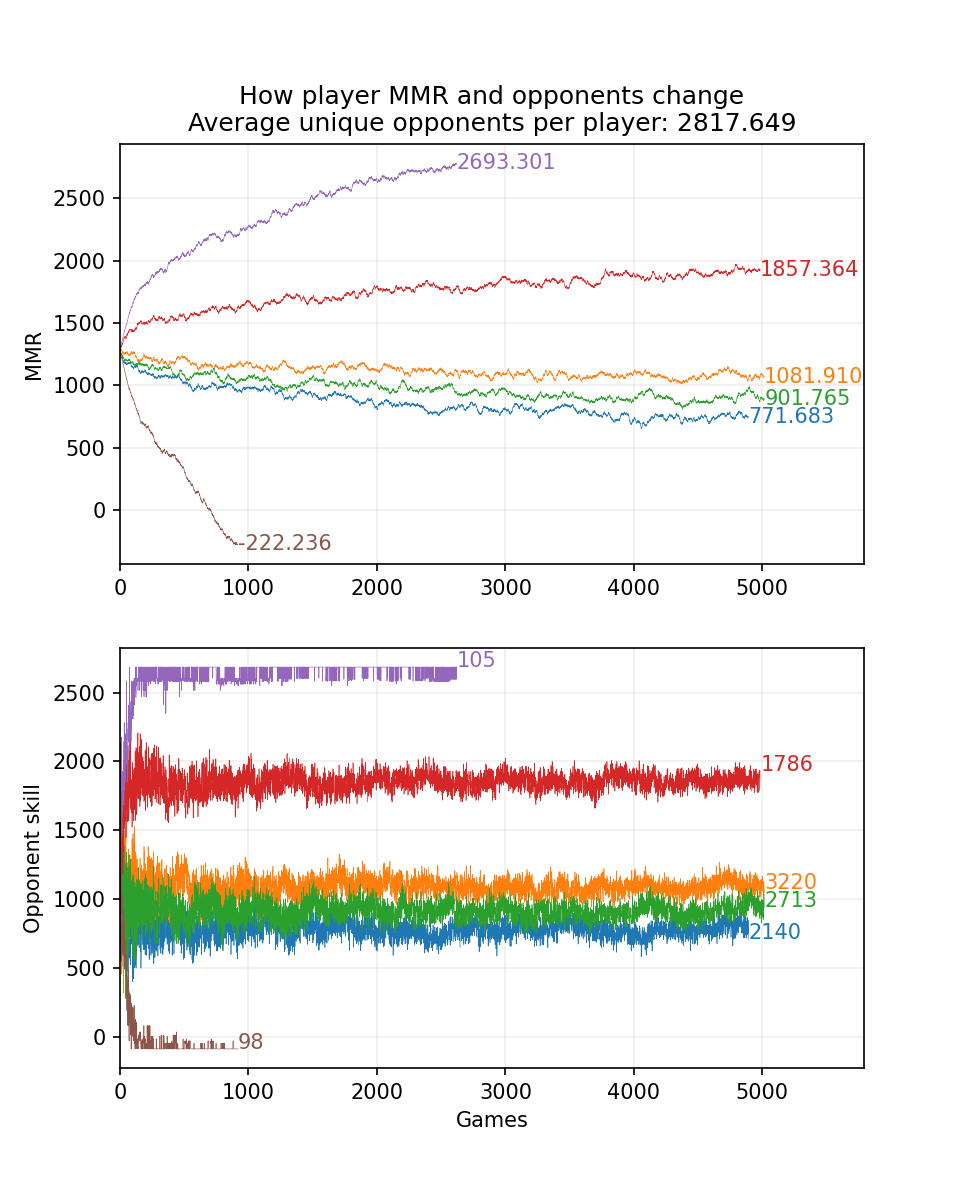
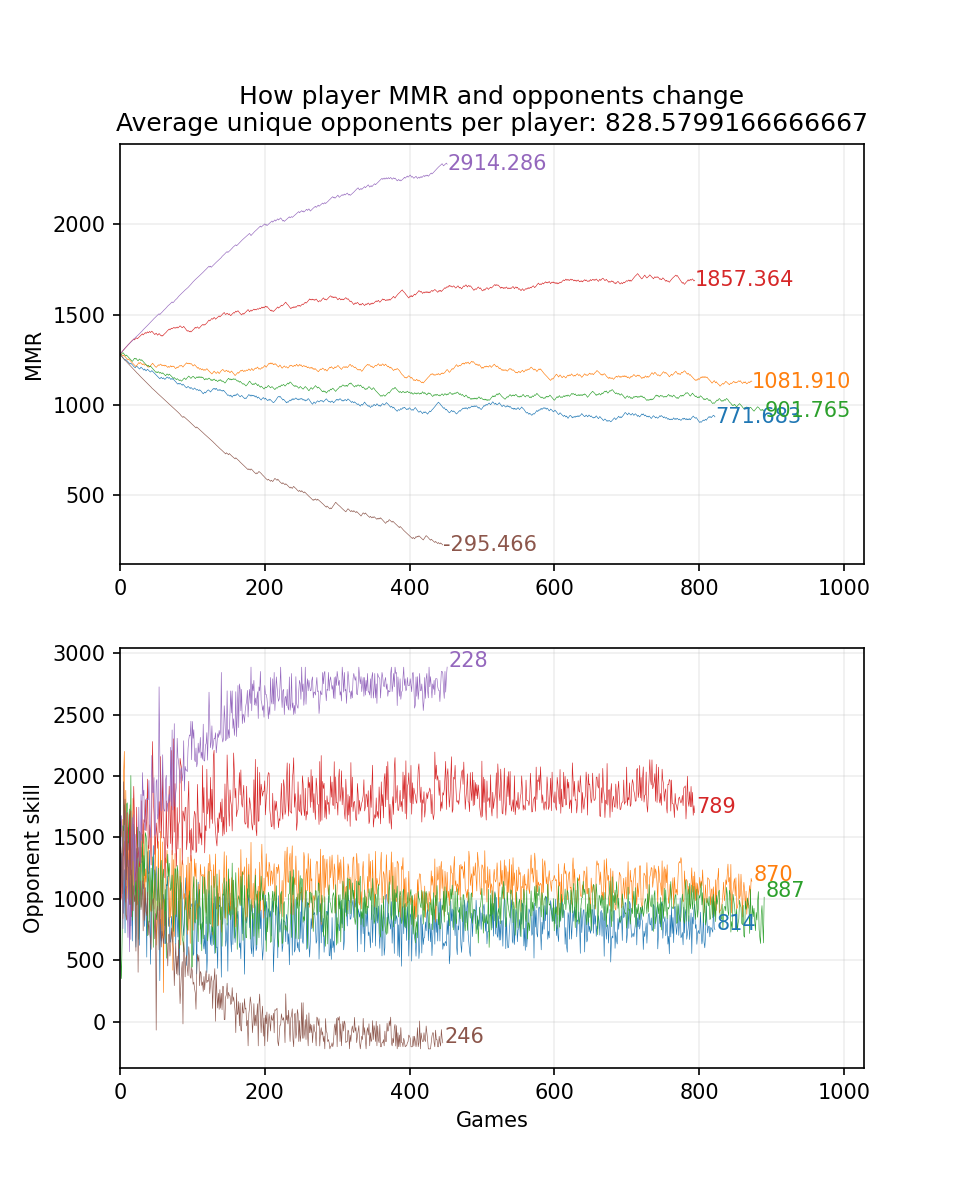
...

diff --git a/analyse.py b/analyse.py
@@ -8,16 +8,15 @@ import seaborn as sns
 
 import psimulation
 
-### RUN SIMULATION
 start = time.time()
-GAMES = 50000000
-PLAYERS = 20000
+### RUN SIMULATION
+PLAYERS = 240000
+GAMES = 1000000
 data = psimulation.run_simulation(PLAYERS, GAMES)
 prediction_differences = np.array(psimulation.export_prediction_diff())
-print(f"Simulation finished in {time.time()-start:.3f} seconds")
 
 ### PLOTTING
-start = time.time()
+start_plotting = time.time()
 plt.rcParams['figure.dpi'] = 150
 
 
@@ -172,7 +171,7 @@ def plot_mmr_history(DATAVALUES=6):
     ax[1].set_xlim(0, ax[1].get_xlim()[1] * 1.1)
     ax[0].set_title(
         "How player MMR and opponents change\n"
-        f"Average unique opponents per player: {statistics.mean(unique_opponents)}"
+        f"Average unique opponents per player: {statistics.mean(unique_opponents):.2f}"
     )
     ax[0].grid(alpha=0.2)
     ax[1].grid(alpha=0.2)
@@ -288,4 +287,5 @@ def plot_other():
 
 
 plot_other()
-print(f"Plotting finished in {time.time()-start:.3f} seconds")
+print(f"Plotting finished in {time.time()-start_plotting:.3f} seconds")
+print(f"Total time: {time.time()-start:.3f} seconds")

diff --git a/main.cpp b/main.cpp
@@ -91,7 +91,7 @@ public:
     // More complicated version would take into account search time, latency, etc.
     bool good_match(Player &p1, Player &p2)
     {
-        return std::abs(p1.mmr - p2.mmr) < 70.0; // 35 MMR → 55% ; 70 → 60% ; 120 → 66%; 191 → 75%
+        return std::abs(p1.mmr - p2.mmr) < 120.0; // 35 MMR → 55% ; 70 → 60% ; 120 → 66%; 191 → 75%
     }
 
     // Updates MMR for
@@ -246,6 +246,6 @@ std::vector<Player> run_sim(int players, int iterations)
     Simulation simulation(strategy);
     simulation.add_players(players);
     simulation.play_games(iterations);
-    print("Pure simulation finished in", t.ms() / 1000, "seconds");
+    print("Simulation finished in", t.ms() / 1000, "seconds");
     return simulation.players;
 }

diff --git a/sim.cpp b/sim.cpp
@@ -1,6 +1,7 @@
 #define PY_SSIZE_T_CLEAN
 #include <Python.h>
 #include "main.cpp" // dirty direct include
+#include "mutils.h" // random helper functions
 
 static char module_docstring[] =
     "Module simulating various strategies for matchmaking";
@@ -67,11 +68,13 @@ static PyObject *run_simulation(PyObject *self, PyObject *args)
     std::vector<Player> &player_data = run_sim(players, iterations);
 
     // Prepare data to be send away
+    Timeit t;
     PyObject *Data = PyList_New(0);
     for (const Player &p : player_data)
     {
         PyList_Append(Data, Py_BuildValue("O", get_player_data(p)));
     }
+    print("Creating Python objects for players finished in", t.ms() / 1000, "seconds");
     return Data;
 }
 

diff --git a/setup.py b/setup.py
@@ -1,9 +1,11 @@
 from distutils.core import setup, Extension
+import numpy
 
 setup(
     name='psimulation',
     version='1.0',
     ext_modules=[
-        Extension("psimulation", ["sim.cpp"])
+        Extension("psimulation", ["sim.cpp"],
+                  include_dirs=[numpy.get_include()])
     ],
 )
